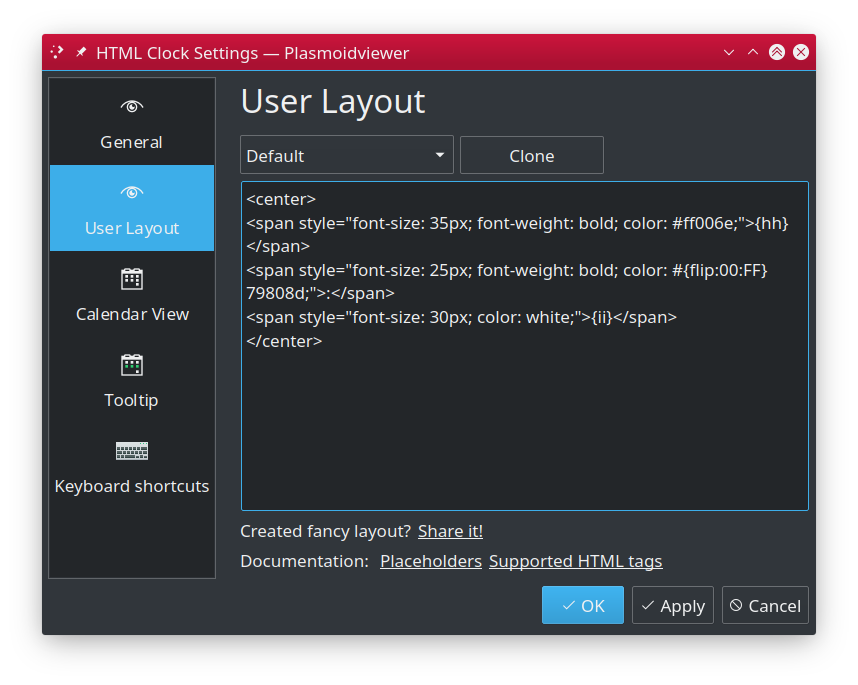
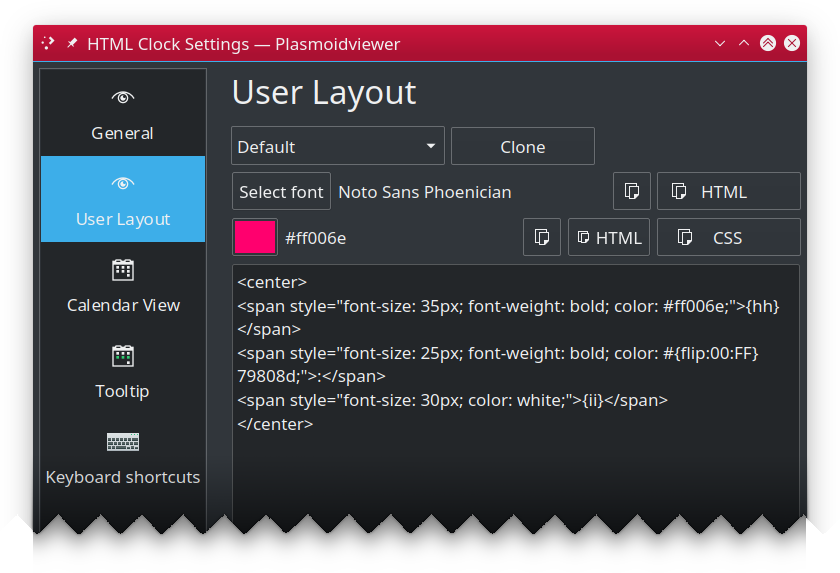
Updated docs

Changed region(s): [[0.031, 0.0297, 0.9905, 0.9494]]

diff --git a/README.md b/README.md
@@ -68,6 +68,16 @@ or using one of built-in layouts as your base.
 ![User Layout](img/config-layout.png)
 
  * **Clone**: Copies the selected built-in layout's markup and parameters to text edit area editor.
+ * **Select font**: is part of "font helper" feature. Select any font from installed on your machine and you will see its
+   family name shown. 
+   * **Copy** Click the "Copy" button to have font family copied to the clipboard (then you can use in text area
+   with regular `CTRL-V` paste shortcut).
+   * **Copy as HTML**: Clicking this button will put complete HTML snippet using `<span>` styled to use font you
+   selected to the clipboard, i.e. `<span style="font-family: Noto Sans; font-size: 16px; font-weight: bold; ">Text</span>`.
+ * **Select color**: similar to "font helper", it's color helper. Select any color to see its `#RRGGBB` value.
+   * **Copy**: Puts your color to the clipboard using `#RRGGBB` notation.
+   * **Copy as HTML**: Puts `<span>` styled to use your color to the clipboard, i.e. `<span style="color: #9d7837;">Text</span>`
+   * **Copy as CSS**: Puts CSS `color: #RRGGBB;` to the clipboard.
 
 ![Notes](img/notes.png) You can specify any font installed on your machine using CSS' `font-family` element,
 giving local font name as argument, i.e. 
